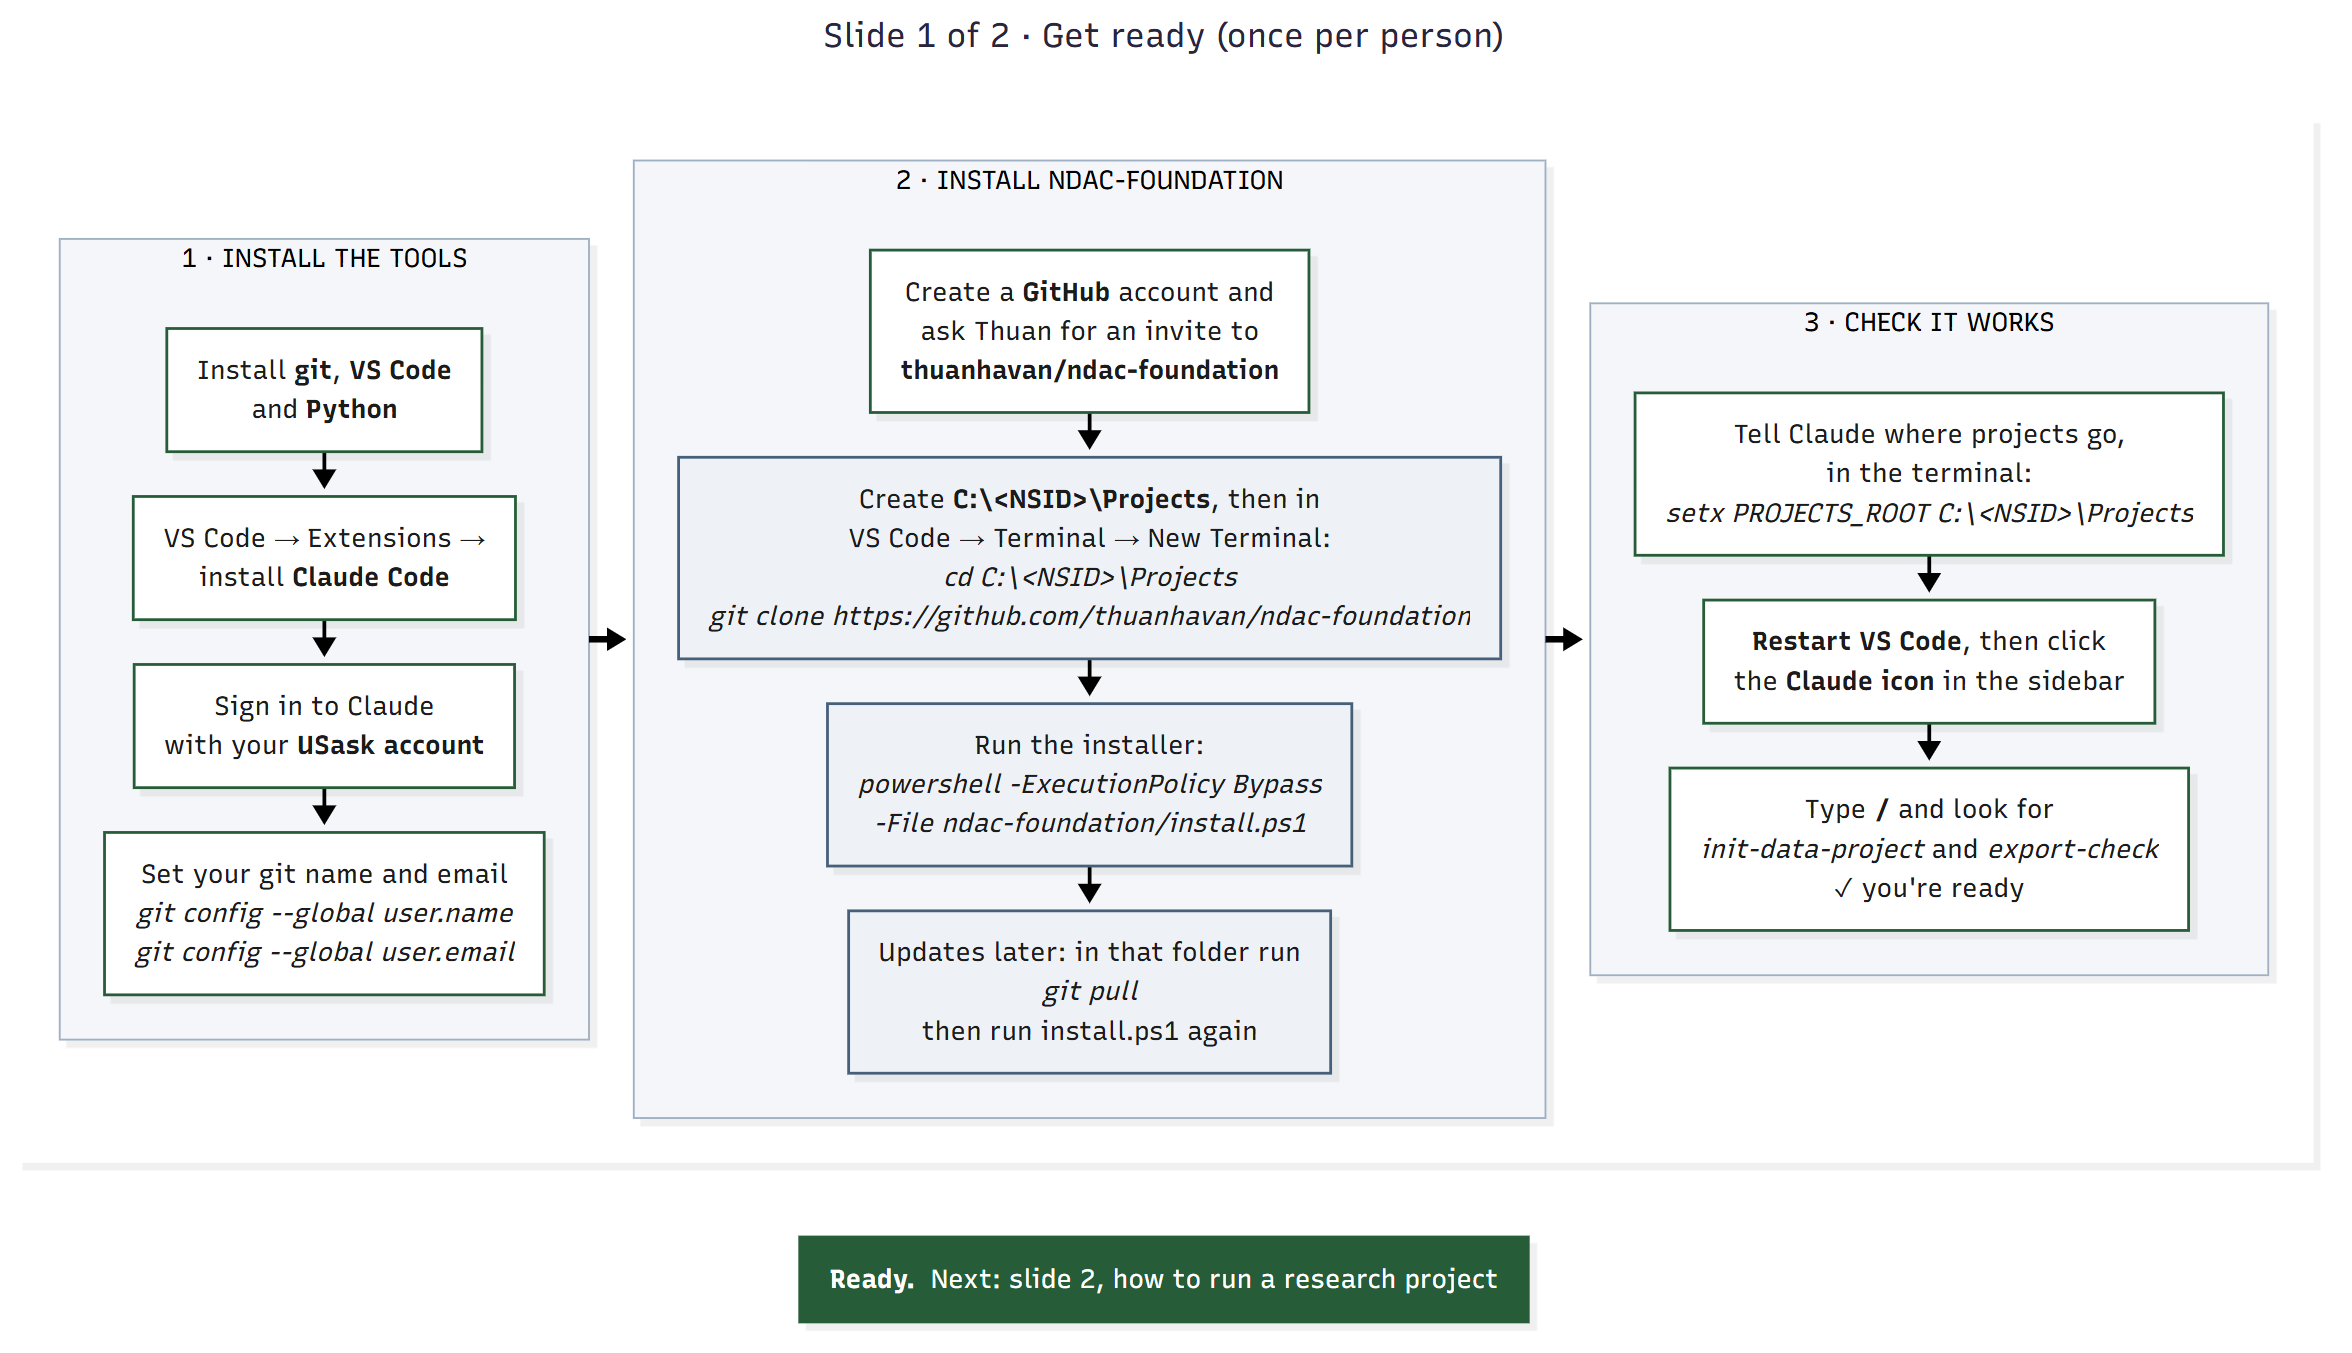
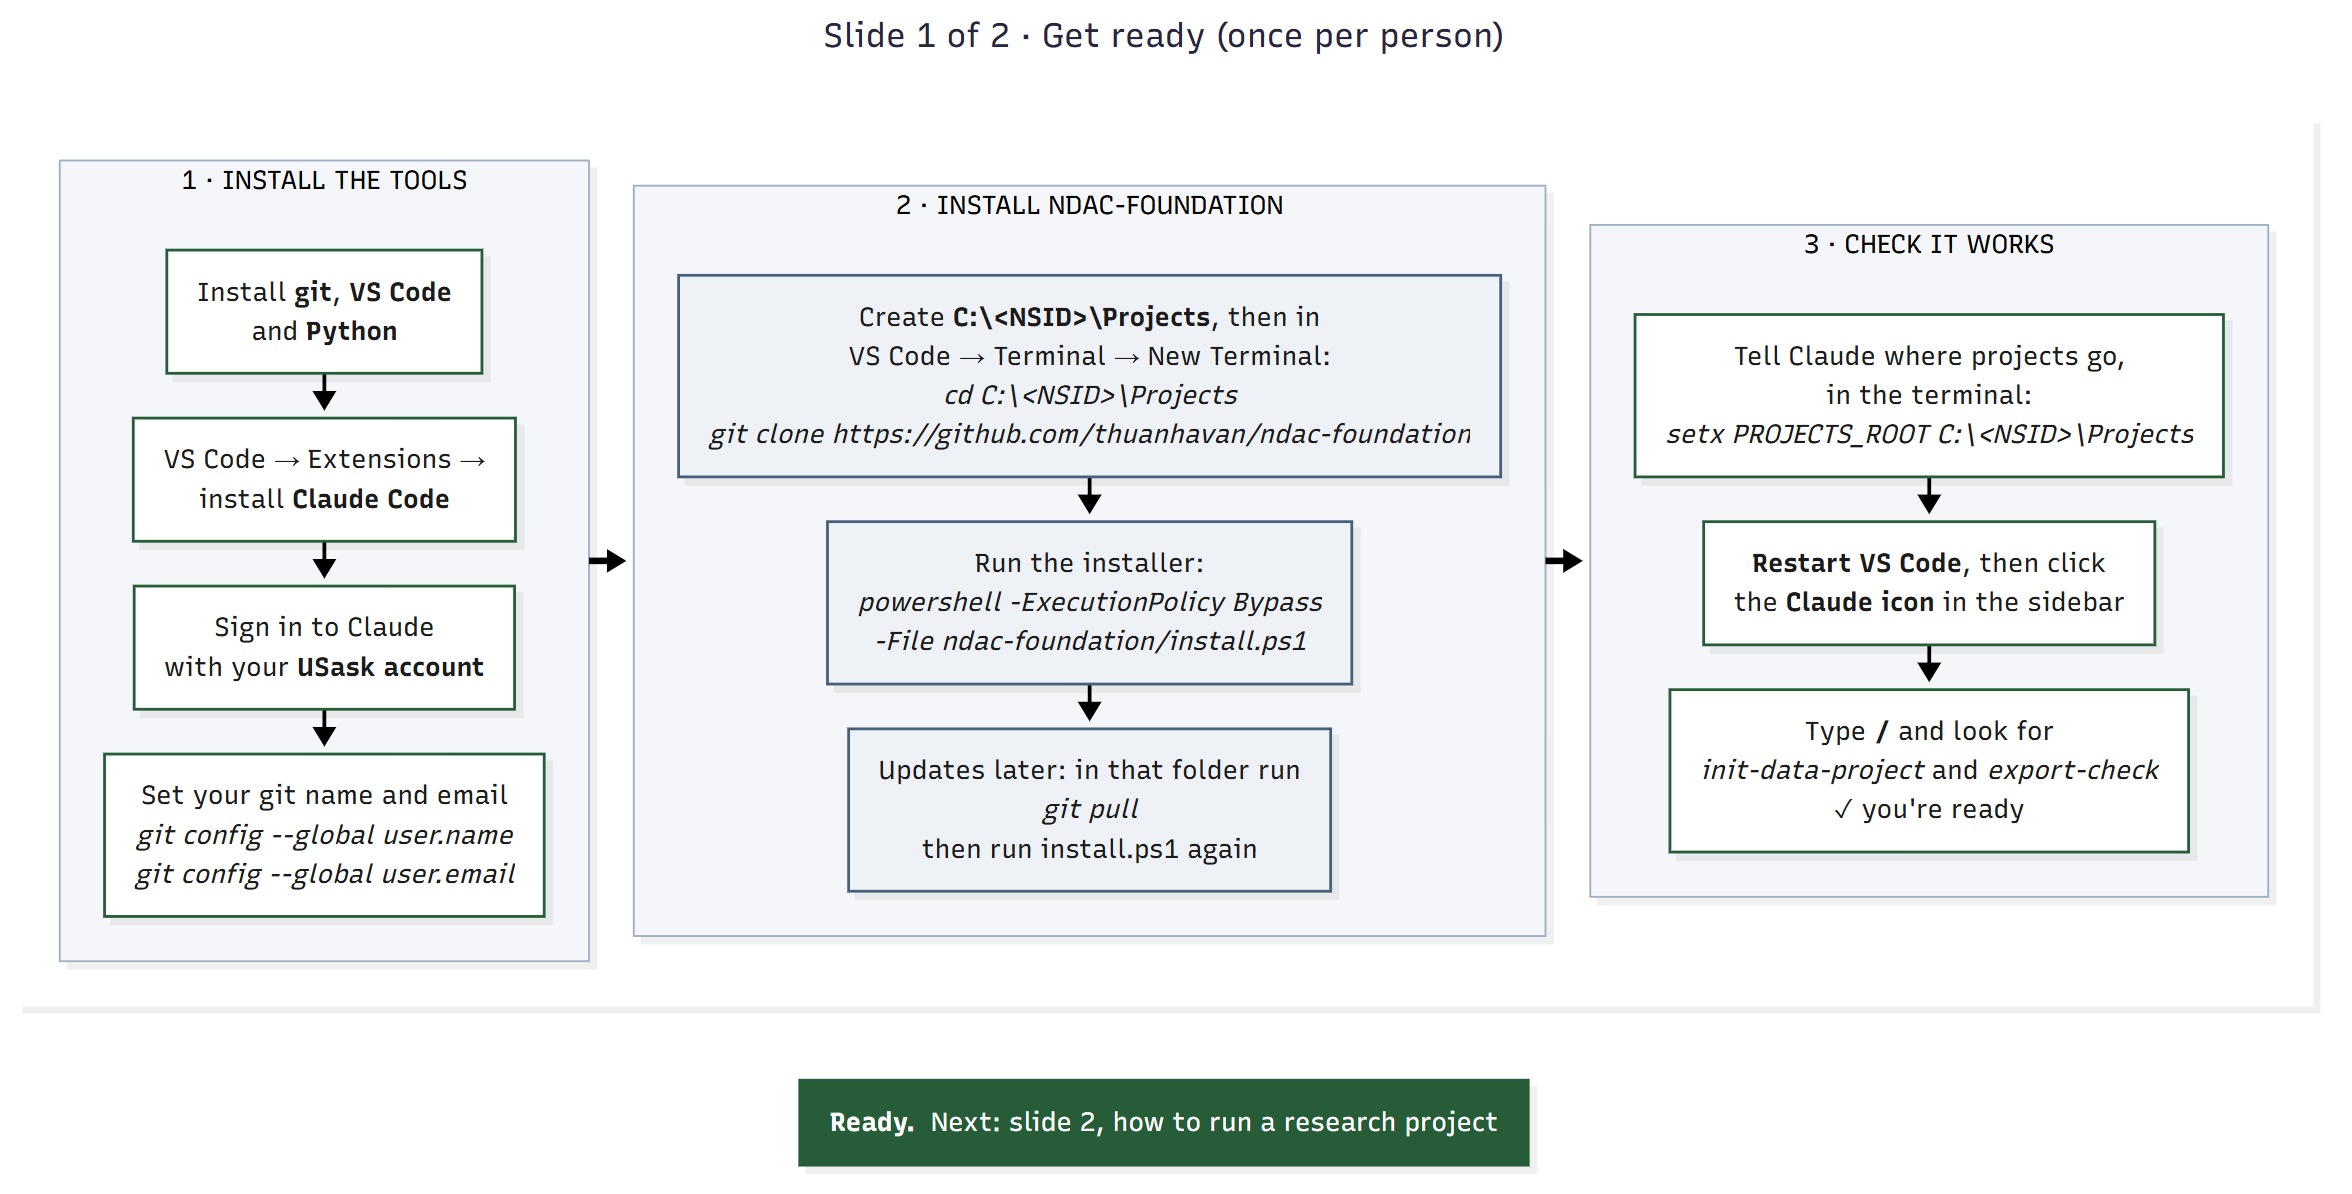
Training/README: no GitHub account or invite needed (repo to be made public)

diff --git a/README.md b/README.md
@@ -7,8 +7,7 @@ documents, data-governance checks and Claude helpers.
 ## Install (once per person)
 
 You need: **git**, **VS Code** with the **Claude Code** extension (signed in with your
-USask account), and **Python**. The repo is private: create a GitHub account and ask Thuan
-for an invite first.
+USask account), and **Python**. No GitHub account is needed to install.
 
 **Windows** (in a VS Code terminal; replace `<NSID>` with yours):
 
